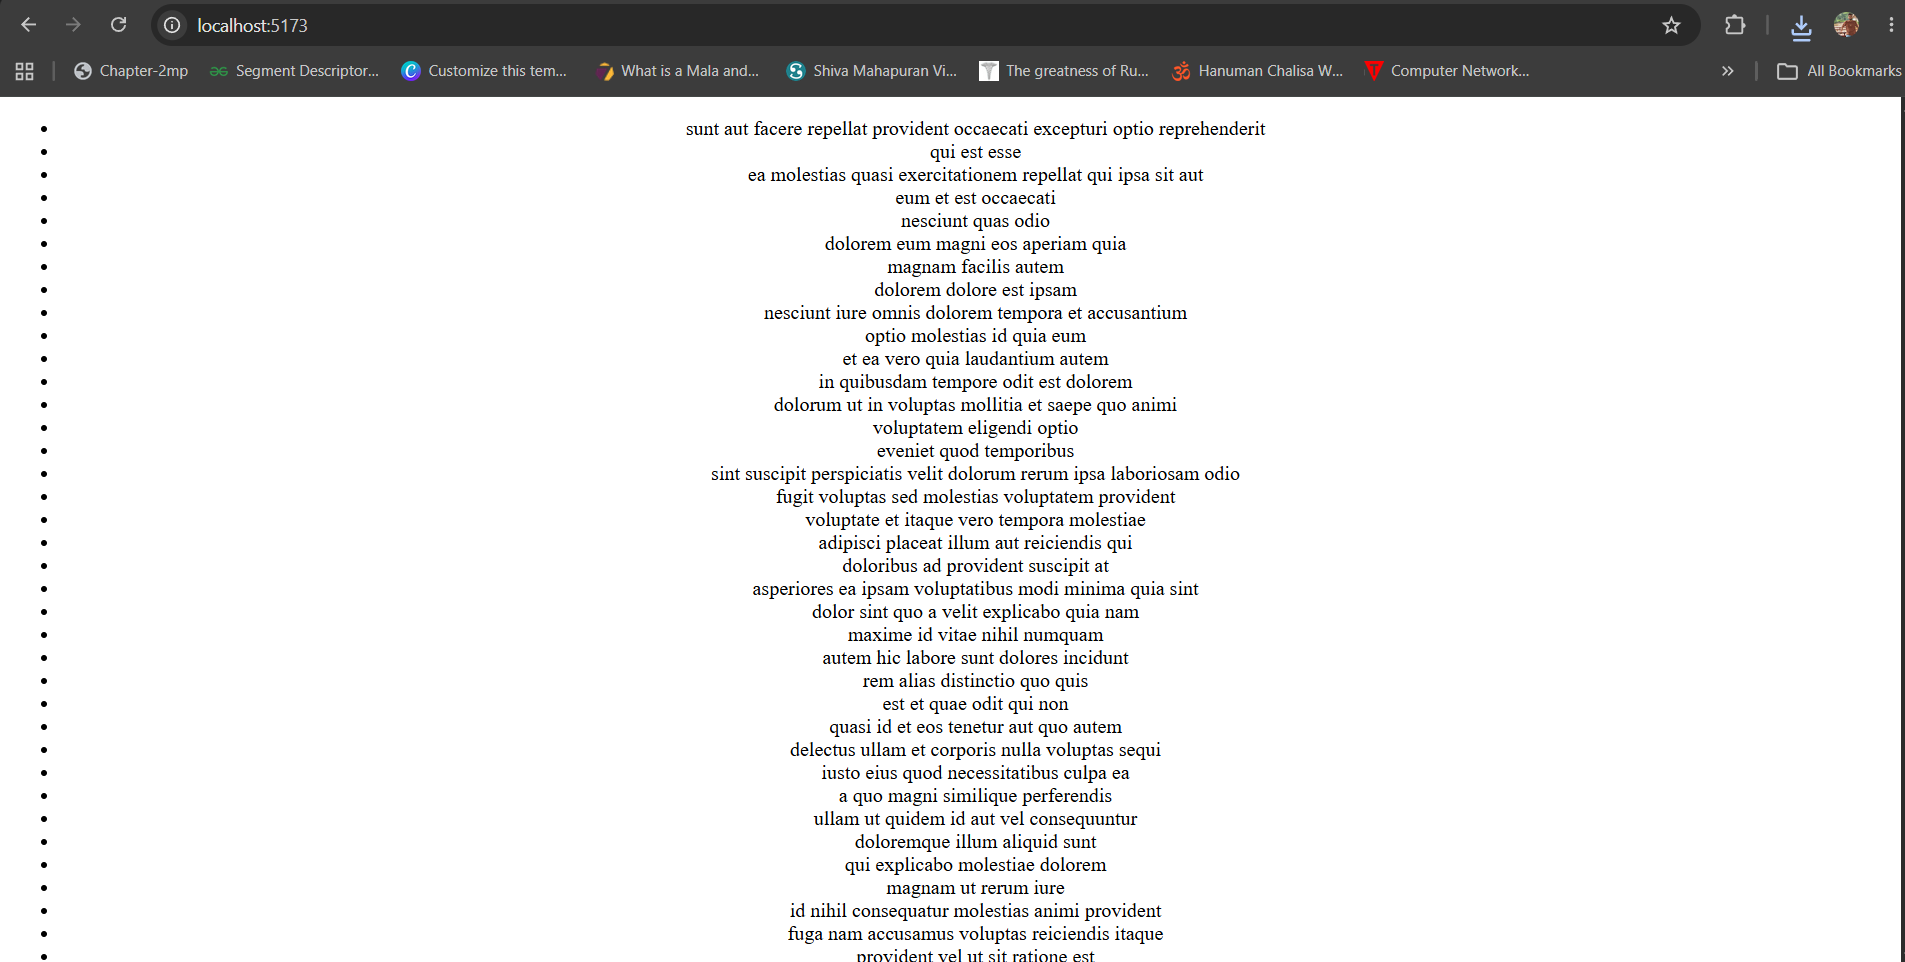
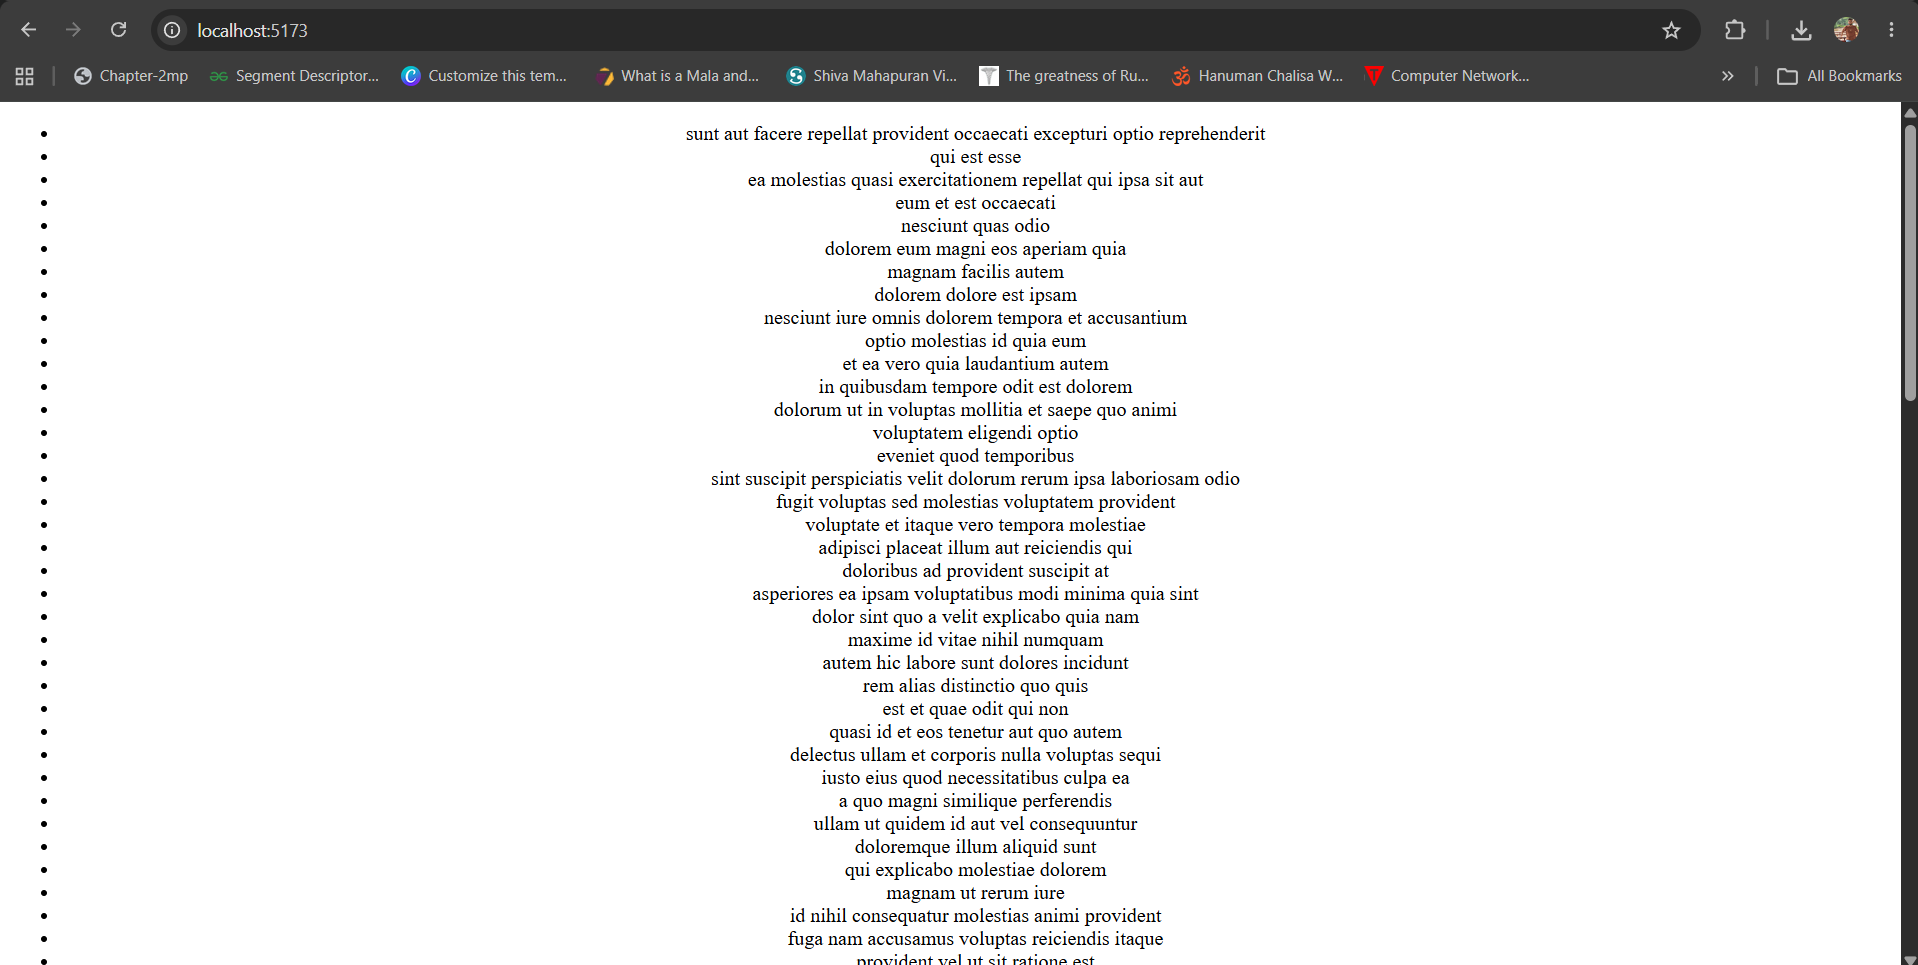
added axios_learn

Changed region(s): [[0.0, 0.0, 1.0, 1.0], [0.0, 0.9979, 0.031, 1.0]]

diff --git a/react/axios_learn/src/components/ThemeContext.jsx b/react/axios_learn/src/components/ThemeContext.jsx
@@ -1,0 +1,27 @@
+import React, { createContext, useState } from 'react'
+
+const ThemeContext = createContext()
+
+const ThemeProvider=({children})=>{
+    const[theme,setTheme]=useState('light')
+
+    const toggleTheme=()=>{
+        setTheme((prevTheme)=>(prevTheme==='light'?'dark':'light'))
+    }
+
+    return(
+        <ThemeContext.Provider value={{theme,toggleTheme}}>
+            <div
+                style={{
+                background: theme === "light" ? "#fff" : "#333",
+                color: theme === "light" ? "#000" : "#fff",
+                minHeight: "100vh",
+                }}
+            >
+                {children}
+            </div>
+        </ThemeContext.Provider>
+    )
+}
+
+export{ThemeContext,ThemeProvider}

diff --git a/react/axios_learn/src/components/ThemedComponent.jsx b/react/axios_learn/src/components/ThemedComponent.jsx
@@ -1,0 +1,23 @@
+import React, { useContext } from 'react'
+import { ThemeContext } from './ThemeContext'
+
+const ThemedComponent = () => {
+  const{theme,toggleTheme}=useContext(ThemeContext)
+  return (
+    <div 
+        // style={
+        //     {
+        //         background:theme==='light'?'#fff':'#333',
+        //         color:theme==='light'?'#000':'#fff',
+        //         padding:'20px',
+        //         textAlign:'center'
+        //     }
+        // }
+    >
+        <p>The current theme is {theme}</p>
+        <button onClick={toggleTheme}>Toggle theme</button>
+    </div>
+  )
+}
+
+export default ThemedComponent

diff --git a/react/axios_learn/src/App.jsx b/react/axios_learn/src/App.jsx
@@ -3,13 +3,20 @@ import FetchMultiPost from './components/FetchMultiPost'
 import FetchSinglePost from './components/FetchSinglePost'
 import UseReducer from './components/UseReducer'
 import './App.css'
+import { ThemeProvider } from './components/ThemeContext'
+import ThemedComponent from './components/ThemedComponent'
+
 
 const App = () => {
   return (
     <div>
-      <FetchMultiPost/>
-      <FetchSinglePost/>
-      <UseReducer/>
+      <ThemeProvider>
+        <FetchMultiPost/>
+        <FetchSinglePost/>
+        <UseReducer/>
+        <ThemedComponent/>
+      </ThemeProvider>
+      
     </div>
   )
 }

diff --git a/react/axios_learn/src/components/FetchMultiPost.jsx b/react/axios_learn/src/components/FetchMultiPost.jsx
@@ -1,6 +1,8 @@
-import React, { useEffect, useState } from 'react'
+import React, { useContext, useEffect, useState } from 'react'
 import axios from 'axios'
+import { ThemeContext } from './ThemeContext';
 const FetchMultiPost = () => {
+  const { theme } = useContext(ThemeContext);
   const[posts,setPosts]=useState([])
 
   useEffect(()=>{
@@ -13,7 +15,12 @@ const FetchMultiPost = () => {
   },[])
 
   return (
-    <div>
+    <div
+        // style={{
+        //     background: theme === "light" ? "#fff" : "#333",
+        //     color: theme === "light" ? "#000" : "#fff",
+        // }}
+    >
         <ul>
             {
                 posts.map((post)=>(

diff --git a/react/axios_learn/src/components/FetchSinglePost.jsx b/react/axios_learn/src/components/FetchSinglePost.jsx
@@ -1,6 +1,8 @@
-import React, { useEffect, useState } from 'react'
+import React, { useContext, useEffect, useState } from 'react'
 import axios from 'axios'
+import { ThemeContext } from './ThemeContext';
 const FetchSinglePost = () => {
+  const { theme } = useContext(ThemeContext);
   const[post,setPost]=useState({})
   const[id,setId]=useState(0)
   const[buttonClicked,setButtonClicked]=useState(0)
@@ -18,7 +20,12 @@ const FetchSinglePost = () => {
     });
   },[buttonClicked])
   return (
-    <div>
+    <div
+      // style={{
+      //   background: theme === "light" ? "#fff" : "#333",
+      //   color: theme === "light" ? "#000" : "#fff",
+      // }}
+    >
         <input type="text" onChange={(e)=>setId(e.target.value)}/>
         <button onClick={handleClick}>Submit</button>
         <h1>{post.title}</h1>

diff --git a/react/axios_learn/README.md b/react/axios_learn/README.md
@@ -1,16 +1,137 @@
-# React + Vite
+# ⚛️ React Hooks Demo
 
-This template provides a minimal setup to get React working in Vite with HMR and some Oxlint rules.
+A React application built with **Vite** to demonstrate the usage of some of the most commonly used React Hooks, including **useEffect**, **useReducer**, and the **Context API**. The project also fetches data from a public REST API and implements a light/dark theme toggle using Context.
 
-Currently, two official plugins are available:
+---
 
-- [@vitejs/plugin-react](https://github.com/vitejs/vite-plugin-react/blob/main/packages/plugin-react) uses [Oxc](https://oxc.rs)
-- [@vitejs/plugin-react-swc](https://github.com/vitejs/vite-plugin-react/blob/main/packages/plugin-react-swc) uses [SWC](https://swc.rs/)
+# ✨ Features
 
-## React Compiler
+* 📄 Fetch and display multiple posts using `useEffect`
+* 📌 Fetch a single post by ID
+* 🔄 State management using `useReducer`
+* 🎨 Light/Dark Theme Toggle using Context API
+* ⚡ Built with Vite for fast development
+* 📱 Responsive and clean UI
 
-The React Compiler is not enabled on this template because of its impact on dev & build performances. To add it, see [this documentation](https://react.dev/learn/react-compiler/installation).
+---
 
-## Expanding the Oxlint configuration
+# 🛠️ Tech Stack
 
-If you are developing a production application, we recommend using TypeScript with type-aware lint rules enabled. Check out the [TS template](https://github.com/vitejs/vite/tree/main/packages/create-vite/template-react-ts) for information on how to integrate TypeScript and Oxlint's TypeScript related rules in your project.
+* React
+* Vite
+* JavaScript (ES6+)
+* CSS
+* Context API
+* useEffect
+* useReducer
+* Fetch API
+
+---
+
+# 📂 Project Structure
+
+```text
+react-hooks-demo/
+│── public/
+│── screenshots/
+│   ├── post.png
+│   └── posts.png
+│── src/
+│   ├── components/
+│   │   ├── FetchMultiPost.jsx
+│   │   ├── FetchSinglePost.jsx
+│   │   ├── UseReducer.jsx
+│   │   ├── ThemeContext.jsx
+│   │   └── ThemedComponent.jsx
+│   ├── App.jsx
+│   ├── App.css
+│   ├── main.jsx
+│   └── index.css
+│── package.json
+│── vite.config.js
+│── README.md
+```
+
+---
+
+# 🚀 Installation
+
+Clone the repository
+
+```bash
+git clone <repository-url>
+```
+
+Navigate to the project folder
+
+```bash
+cd react-hooks-demo
+```
+
+Install dependencies
+
+```bash
+npm install
+```
+
+Start the development server
+
+```bash
+npm run dev
+```
+
+---
+
+# 📸 Screenshots
+
+## Multiple Posts
+
+![Multiple Posts](./screenshots/posts.png)
+
+---
+
+## Single Post
+
+![Single Post](./screenshots/post.png)
+
+---
+
+# 📖 Concepts Covered
+
+### useEffect
+
+* Fetching API data
+* Handling side effects
+* Component lifecycle
+
+### useReducer
+
+* Managing complex state
+* Dispatching actions
+* Reducer functions
+
+### Context API
+
+* Creating Context
+* Providing Context using `ThemeProvider`
+* Consuming Context with `useContext`
+* Theme switching (Light/Dark)
+
+---
+
+# 🎯 Learning Outcomes
+
+After completing this project, you will understand how to:
+
+* Fetch data from REST APIs
+* Display lists of data in React
+* Manage state using `useReducer`
+* Share data across components using Context API
+* Implement a Light/Dark Theme
+* Organize React components effectively
+
+---
+
+# 📄 License
+
+This project is created for learning and educational purposes.